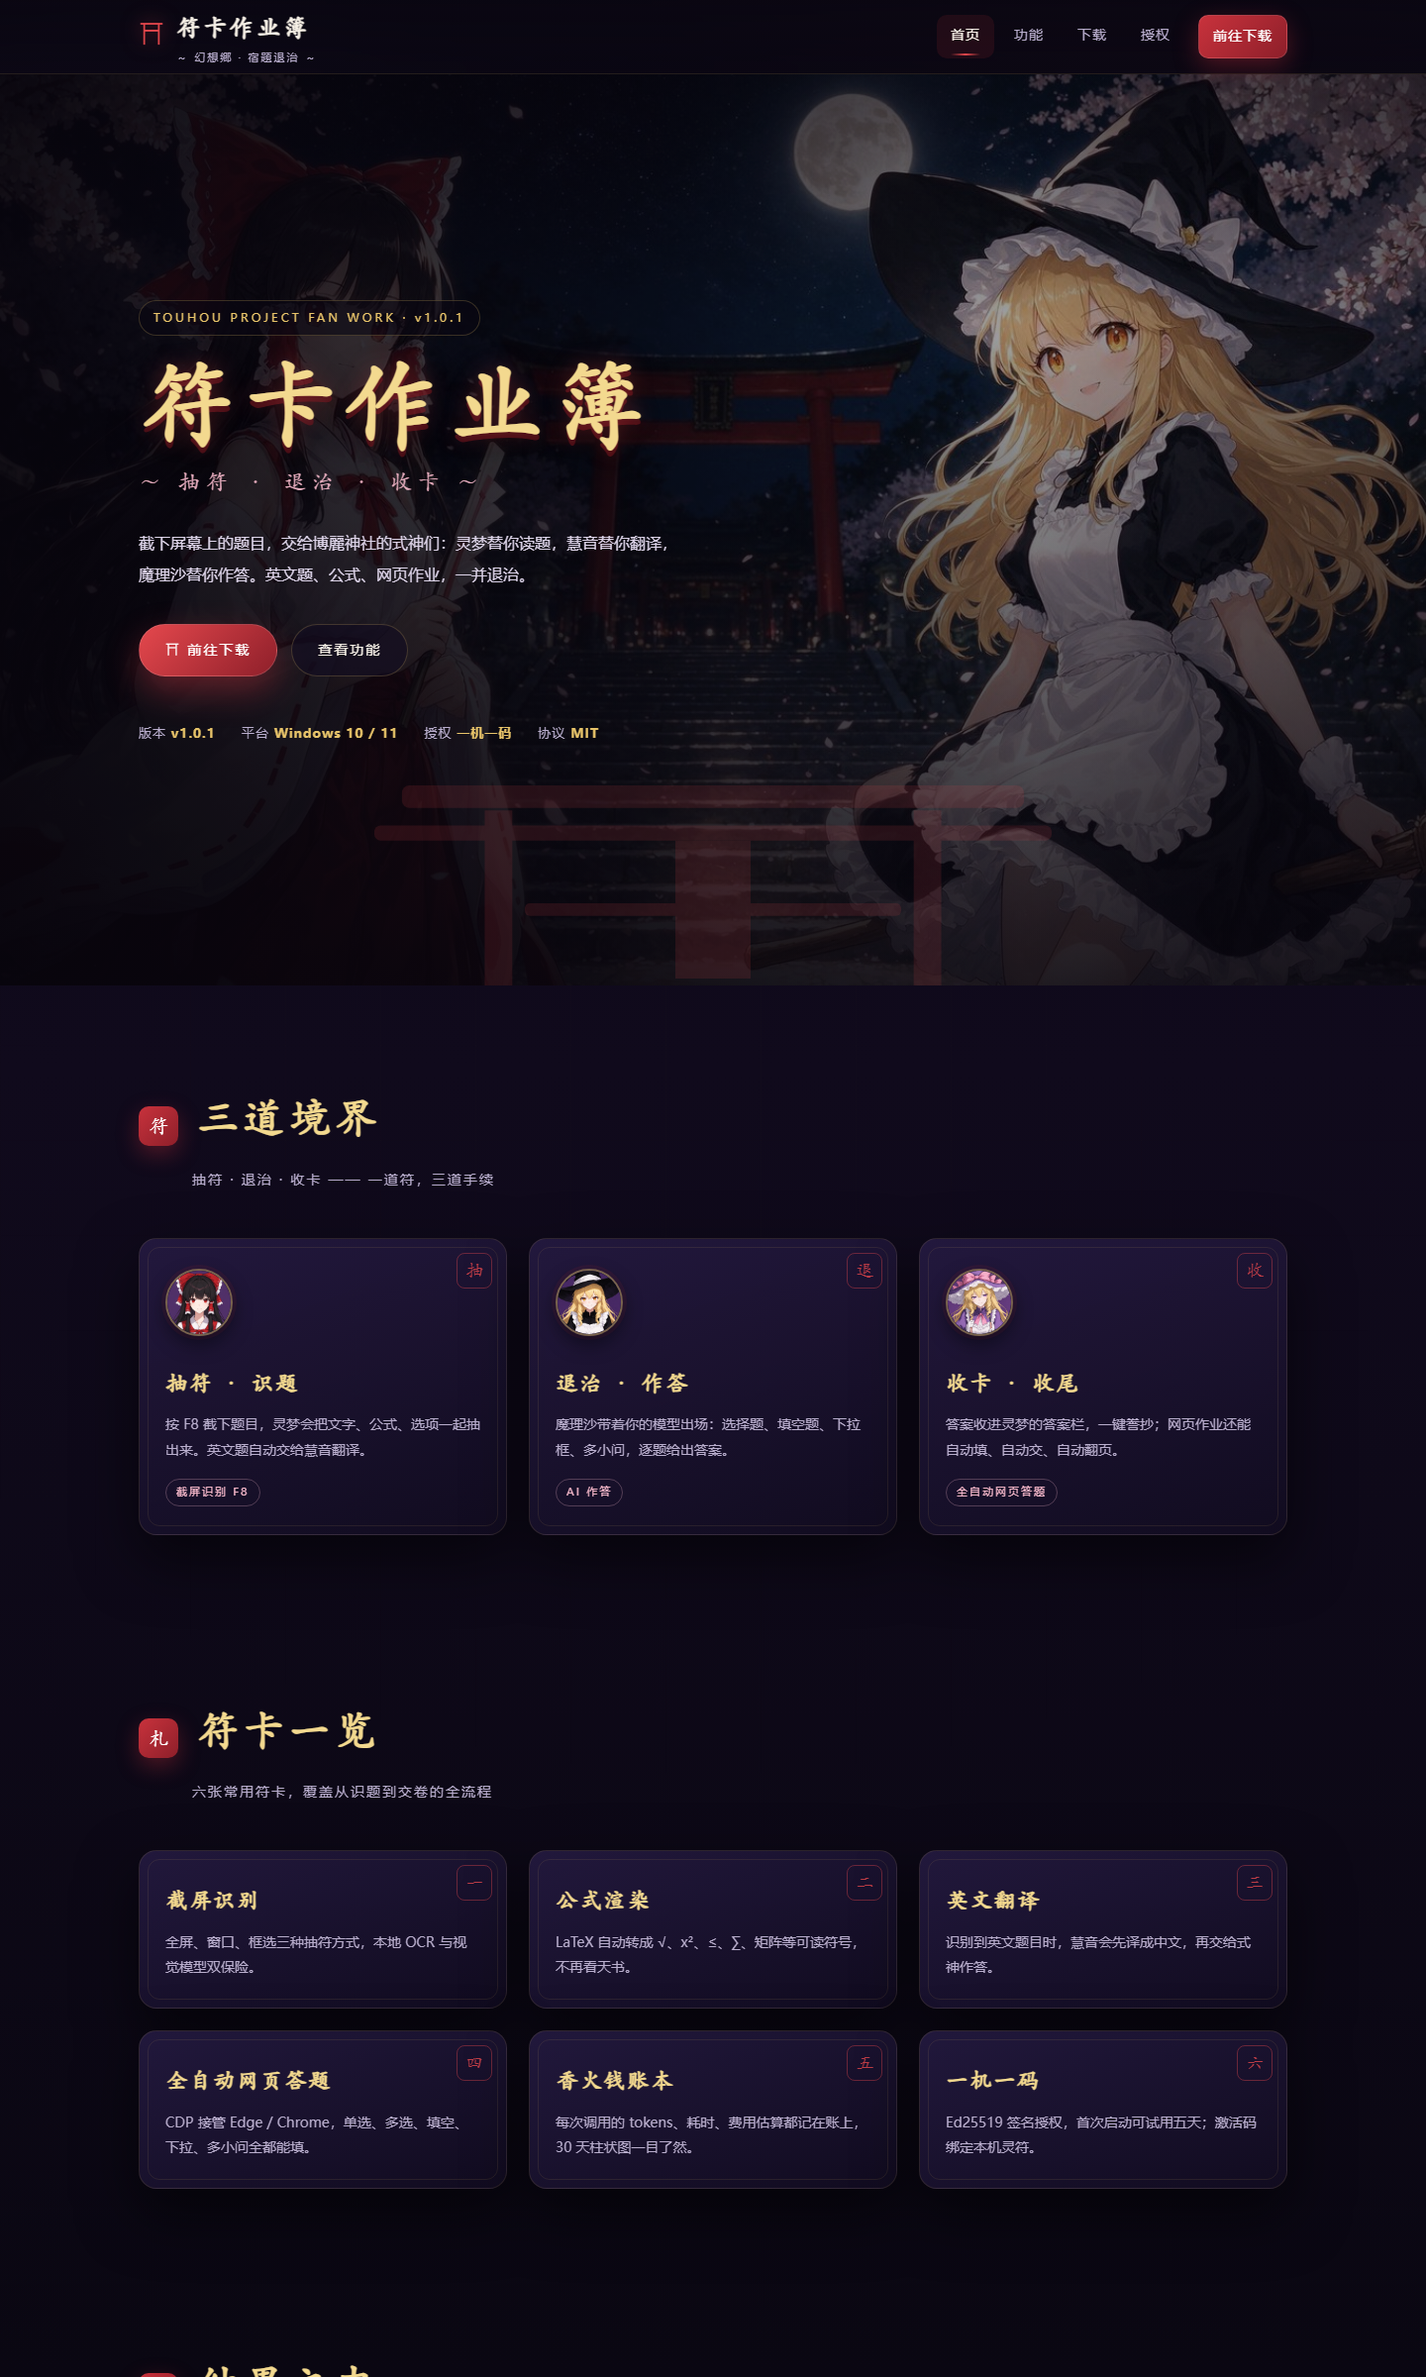
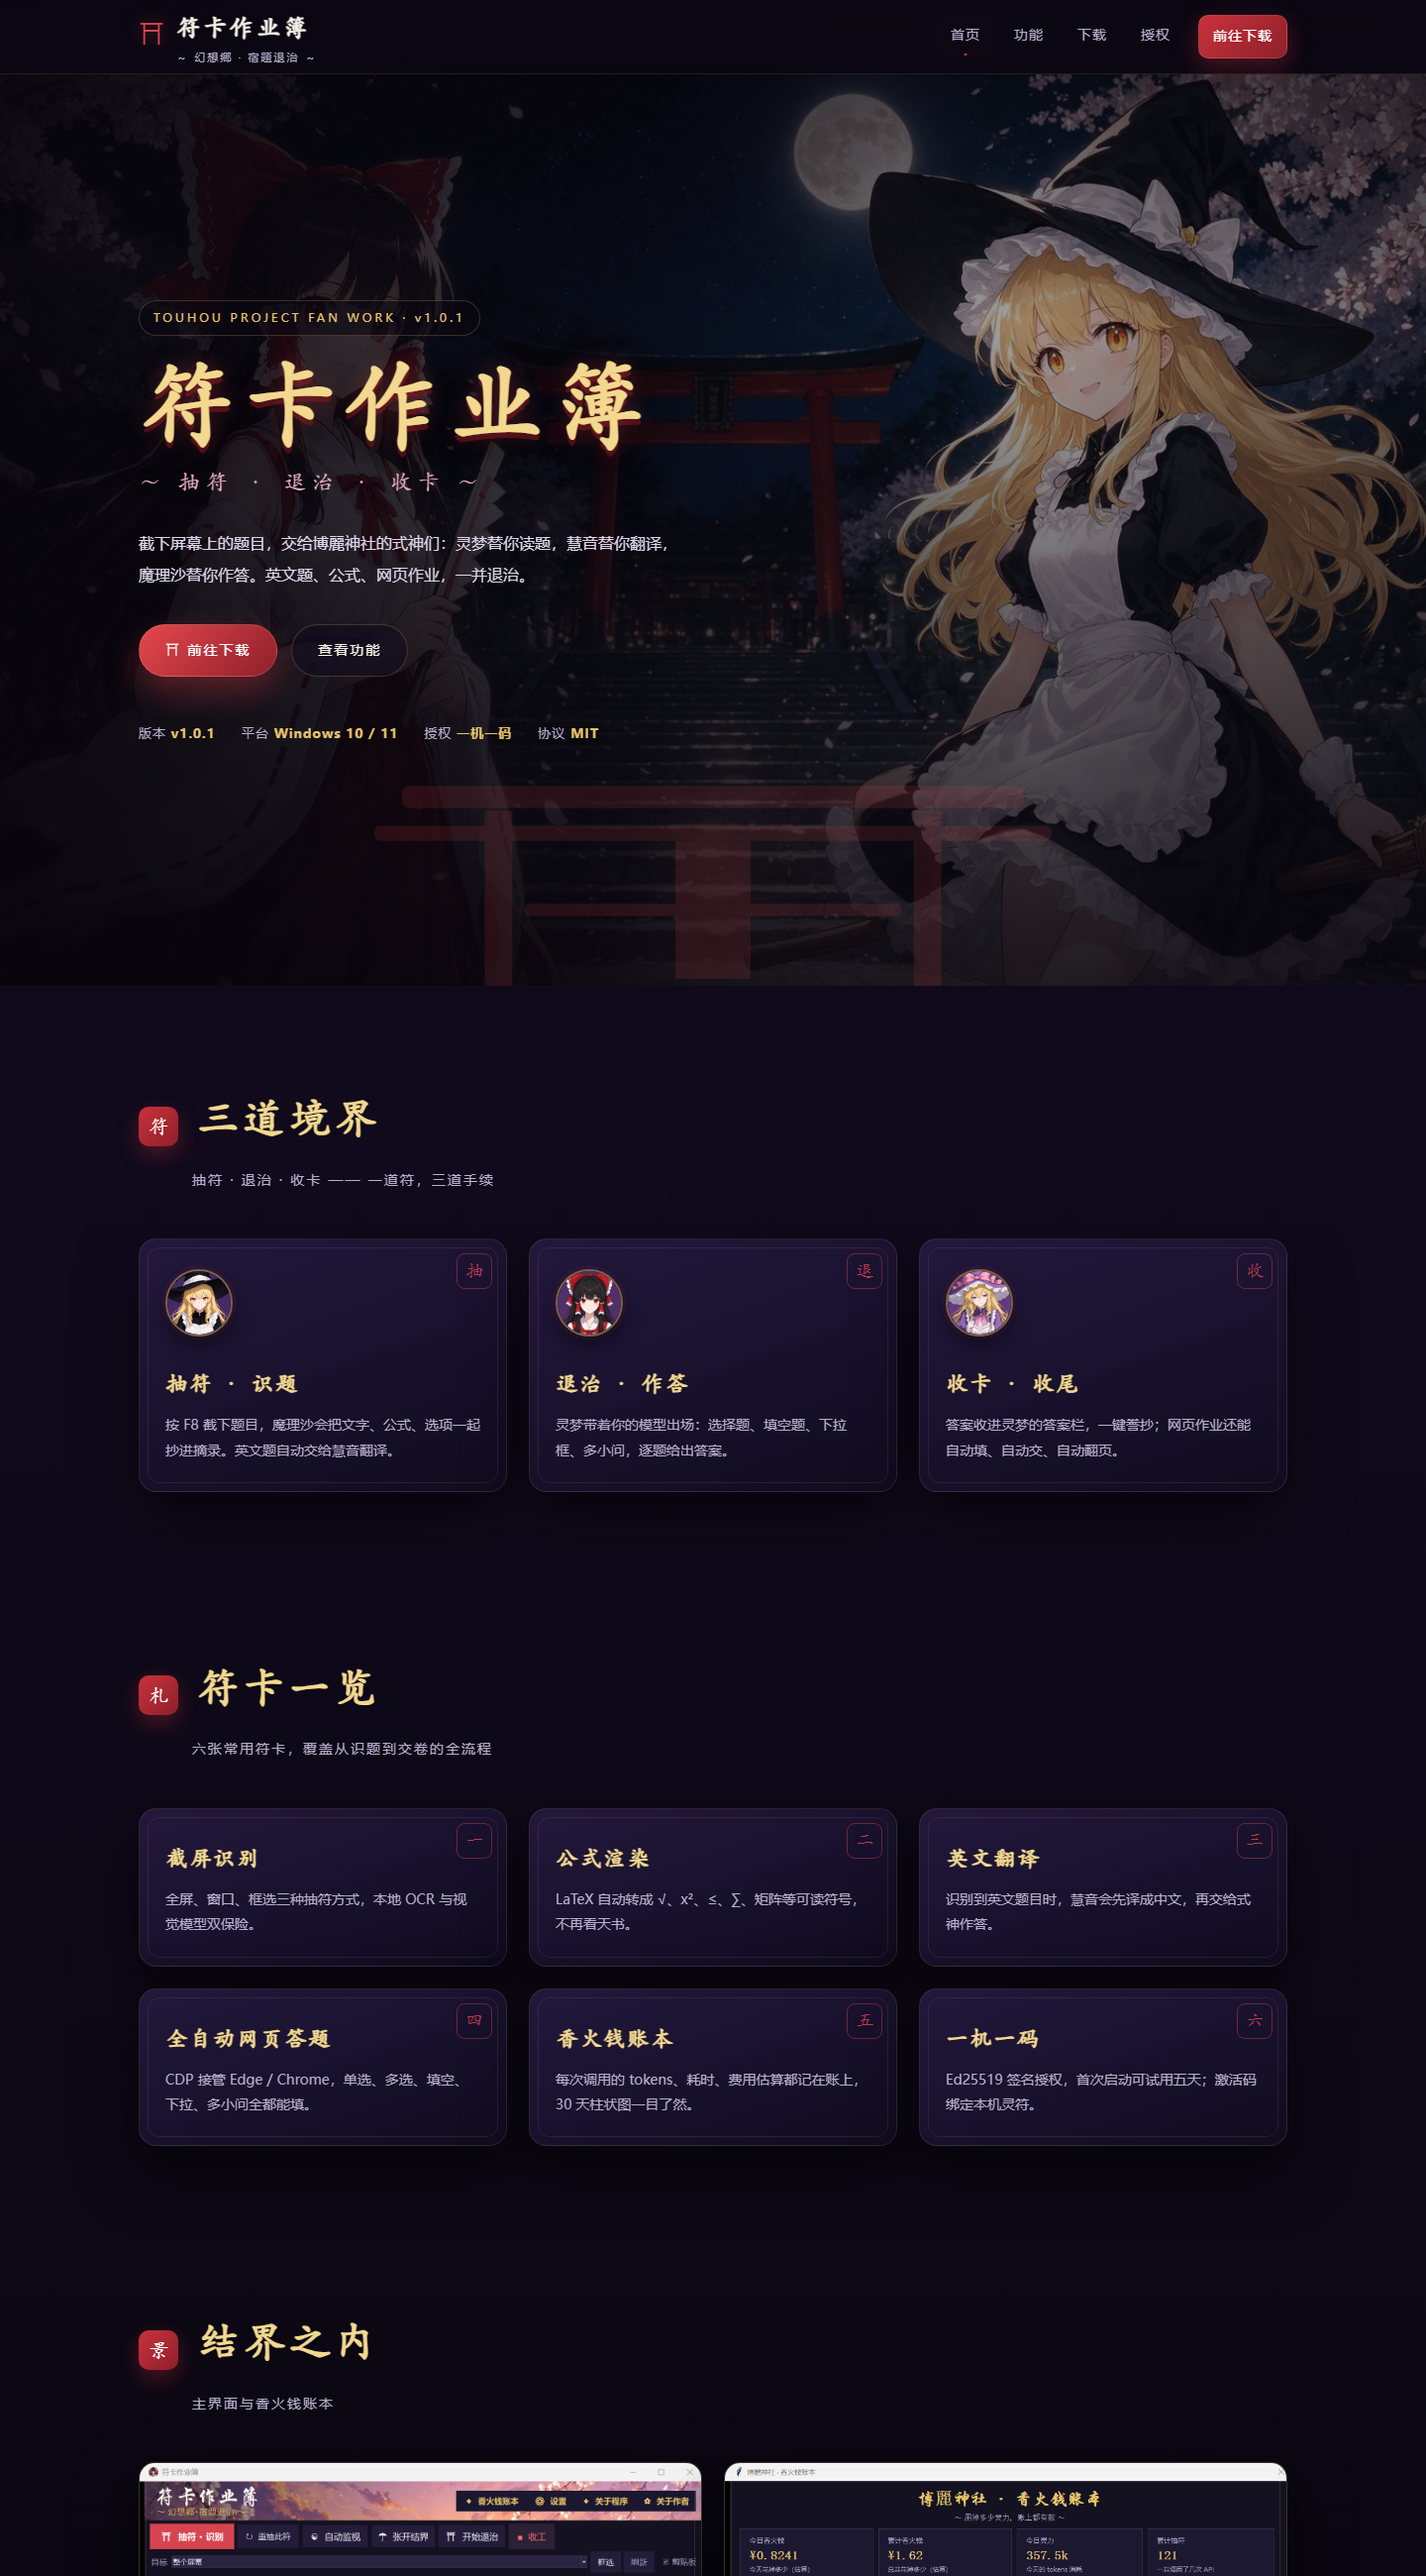
Site: Setup-only download, remove MSIX module

diff --git a/HTML/download.html b/HTML/download.html
@@ -5,7 +5,7 @@
   <meta charset="UTF-8" />
   <meta name="viewport" content="width=device-width, initial-scale=1.0" />
   <title>下载 · 符卡作业簿</title>
-  <meta name="description" content="下载符卡作业簿 v1.0.1：Windows 安装包与 MSIX，含校验和、系统要求与授权说明。" />
+  <meta name="description" content="下载符卡作业簿 v1.0.1：Windows 安装包，含校验和、系统要求与授权说明。" />
   <link rel="icon" href="assets/img/favicon.png" />
   <link rel="stylesheet" href="assets/css/style.css" />
 </head>
@@ -41,7 +41,6 @@
       <div class="container">
         <div class="dl-grid">
           <article class="dl-card reveal">
-            <span class="badge">推荐</span>
             <h3>安装包 · Setup</h3>
             <div class="meta">SpellCardHomework-Setup-1.0.1.exe · 约 30.5 MB</div>
             <div class="hash">SHA256 414C4A020436BFC43C11B37FAFA1D7C69CBBBB322BA199C9AF11D0D8783DA434
@@ -52,19 +51,6 @@
             <div class="actions">
               <a class="btn btn-primary" href="https://github.com/Jerry9335/SpellCardHomework/releases/download/v1.0.1/SpellCardHomework-Setup-1.0.1.exe">下载安装包</a>
               <a class="btn btn-ghost" href="https://github.com/Jerry9335/SpellCardHomework/releases/latest" target="_blank" rel="noopener">发布页</a>
-            </div>
-          </article>
-
-          <article class="dl-card reveal">
-            <h3>MSIX · 侧载</h3>
-            <div class="meta">SpellCardHomework.msix · 约 40.5 MB</div>
-            <div class="hash">SHA256 F5C690DC05EB5538234DEF2E236961AE5D649FBFEBDB10CE0C160A8C1818D70C
-              <div style="margin-top:8px">
[1 lines of base64/hex data omitted]
-              </div>
-            </div>
-            <div class="actions">
-              <a class="btn btn-ghost" href="https://github.com/Jerry9335/SpellCardHomework/releases/download/v1.0.1/SpellCardHomework.msix">下载 MSIX</a>
             </div>
           </article>
         </div>
@@ -170,10 +156,6 @@
           <details class="faq">
             <summary>Windows 提示「已保护你的电脑」怎么办？</summary>
             <p>安装包没有购买代码签名证书，SmartScreen 会提示。点「更多信息 → 仍要运行」即可。校验和可以在上方复制核对。</p>
-          </details>
-          <details class="faq">
-            <summary>MSIX 安装失败？</summary>
-            <p>MSIX 侧载需要先安装受信任的签名证书，或者交给 Microsoft Store 分发。普通使用建议直接用 Setup 安装包。</p>
           </details>
           <details class="faq">
             <summary>重装后为什么还是已激活？</summary>

diff --git a/HTML/index.html b/HTML/index.html
@@ -76,22 +76,19 @@
         </div>
         <div class="grid grid-3">
           <article class="spell-card reveal" data-seal="抽">
-            <div class="icon"><img class="avatar" src="assets/img/reimu.png" alt="灵梦" /></div>
+            <div class="icon"><img class="avatar" src="assets/img/marisa.png" alt="魔理沙" /></div>
             <h3>抽符 · 识题</h3>
-            <p>按 F8 截下题目，灵梦会把文字、公式、选项一起抽出来。英文题自动交给慧音翻译。</p>
-            <span class="tag">截屏识别 F8</span>
+            <p>按 F8 截下题目，魔理沙会把文字、公式、选项一起抄进摘录。英文题自动交给慧音翻译。</p>
           </article>
           <article class="spell-card reveal" data-seal="退">
-            <div class="icon"><img class="avatar" src="assets/img/marisa.png" alt="魔理沙" /></div>
+            <div class="icon"><img class="avatar" src="assets/img/reimu.png" alt="灵梦" /></div>
             <h3>退治 · 作答</h3>
-            <p>魔理沙带着你的模型出场：选择题、填空题、下拉框、多小问，逐题给出答案。</p>
-            <span class="tag">AI 作答</span>
+            <p>灵梦带着你的模型出场：选择题、填空题、下拉框、多小问，逐题给出答案。</p>
           </article>
           <article class="spell-card reveal" data-seal="收">
             <div class="icon"><img class="avatar" src="assets/img/yukari.png" alt="紫" /></div>
             <h3>收卡 · 收尾</h3>
             <p>答案收进灵梦的答案栏，一键誊抄；网页作业还能自动填、自动交、自动翻页。</p>
-            <span class="tag">全自动网页答题</span>
           </article>
         </div>
       </div>
@@ -173,7 +170,7 @@
           <p style="max-width:560px;margin:0 auto 26px">
             下载安装包，首次启动可试用五天。结界已开，只等你的灵符。
           </p>
-          <a class="btn btn-primary" href="download.html">前往下载 v1.0.1</a>
+          <a class="btn btn-primary" href="https://github.com/Jerry9335/SpellCardHomework/releases/download/v1.0.1/SpellCardHomework-Setup-1.0.1.exe">前往下载 v1.0.1</a>
         </div>
       </div>
     </section>
@@ -191,7 +188,7 @@
           <h4>导航</h4>
           <a href="index.html">首页</a>
           <a href="features.html">功能介绍</a>
-          <a href="download.html">下载</a>
+          <a href="https://github.com/Jerry9335/SpellCardHomework/releases/download/v1.0.1/SpellCardHomework-Setup-1.0.1.exe">下载</a>
           <a href="download.html#activate">授权与试用</a>
         </div>
         <div>

diff --git a/HTML/assets/css/style.css b/HTML/assets/css/style.css
@@ -451,7 +451,7 @@ a:hover { color: #fff; }
 }
 .download-hero p { color: var(--muted); letter-spacing: 2px; }
 
-.dl-grid { display: grid; grid-template-columns: repeat(2, 1fr); gap: 22px; margin: 34px 0; }
+.dl-grid { display: grid; grid-template-columns: minmax(0, 1fr); gap: 22px; margin: 34px auto; max-width: 780px; }
 .dl-card {
   position: relative;
   padding: 30px;
@@ -579,7 +579,7 @@ details.faq p { margin: 0 0 14px; color: var(--muted); font-size: 14px; }
   .feature-row.reverse .text { order: 0; }
   .stats { grid-template-columns: 1fr 1fr; }
   .footer-grid { grid-template-columns: 1fr 1fr; }
-  .dl-grid { grid-template-columns: 1fr; }
+  .dl-grid { grid-template-columns: 1fr; max-width: 100%; }
 }
 @media (max-width: 720px) {
   .nav { height: 66px; }

diff --git a/docs/release_notes_v1.0.1.md b/docs/release_notes_v1.0.1.md
@@ -42,8 +42,6 @@
    - 点「先试用 5 天」直接试用
    - 或复制「本机灵符」发邮件申请激活码
 
-> MSIX 包 `SpellCardHomework.msix` 供侧载/商店使用，本地侧载需要签名。
-
 ### 系统要求
 
 - Windows 10 / 11（x64）
@@ -62,9 +60,6 @@
 ```
 SpellCardHomework-Setup-1.0.1.exe
[1 lines of base64/hex data omitted]
-
-SpellCardHomework.msix
[1 lines of base64/hex data omitted]
 ```
 
 ---
@@ -122,7 +117,4 @@ F5C690DC05EB5538234DEF2E236961AE5D649FBFEBDB10CE0C160A8C1818D70C
 ```
 SpellCardHomework-Setup-1.0.1.exe
[1 lines of base64/hex data omitted]
-
-SpellCardHomework.msix
[1 lines of base64/hex data omitted]
 ```

diff --git a/README.en.md b/README.en.md
@@ -62,7 +62,6 @@ Download from [Releases](../../releases):
 | File | Description |
 | --- | --- |
 | `SpellCardHomework-Setup-1.0.1.exe` | Standard installer (Inno Setup) |
-| `SpellCardHomework.msix` | MSIX package (sideloading requires signing) |
 
 > The installer shows the End User License Agreement; you must accept it to continue (silent installs with `/VERYSILENT` skip this page).
 >
@@ -133,7 +132,7 @@ python -m PyInstaller --noconfirm --clean --windowed --name "SpellCardHomework" 
 :: 2. Installer (Inno Setup 7)
 "D:\Program Files\Inno Setup 7\ISCC.exe" installer\SpellCardHomework.iss
 
-:: 3. MSIX
+:: 3. MSIX (optional, local build only, not published with releases)
 powershell -ExecutionPolicy Bypass -File installer\build_msix.ps1
 ```
 

diff --git a/docs/github_upload.md b/docs/github_upload.md
@@ -136,7 +136,6 @@ git push -u origin main
 2. Tag：`v1.0.1`，标题：`SpellCardHomework 1.0.1`
 3. 上传：
    - `installer/Output/SpellCardHomework-Setup-1.0.1.exe`
-   - `installer/Output/SpellCardHomework.msix`
 4. 发布说明可以写：
 
 ```
